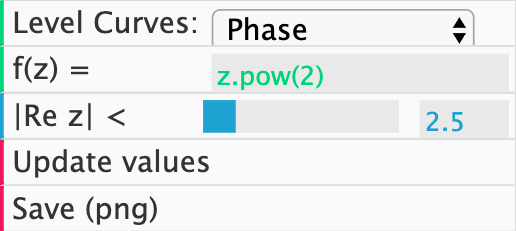
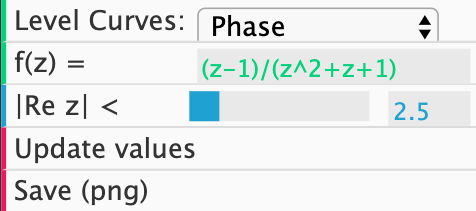
updated

diff --git a/domain-coloring/index.html b/domain-coloring/index.html
@@ -77,7 +77,7 @@
 <div class="w3-main center w3-padding-16" style="margin-top:45px">
     
 <div class="w3-container">
-    <h1>Domain coloring for visualizing complex functions <br> <p class="w3-left w3-small">15-July-2018<p></h1>
+    <h1>Domain coloring for visualizing complex functions <br> <p class="w3-center w3-small">15-July-2018<p></h1>
      <br>
      
      <div class="w3-center">
@@ -199,7 +199,7 @@
         
         <p>With the following tools you can plot an extensive variety of complex functions.</p>
         
-        <p><b>Important:</b> You will need to use the sintax from the JavaScript library  <a href="https://github.com/infusion/Complex.js/" class="w3-hover-text-blue"> Complex.js.</a> </p>
+        <!--<p><b>Important:</b> You will need to use the sintax from the JavaScript library  <a href="https://github.com/infusion/Complex.js/" class="w3-hover-text-blue"> Complex.js.</a> </p>-->
         
         <div class="w3-center w3-padding-16">
             
@@ -237,13 +237,13 @@
                 
                 <p>For plotting $f(z)=z^2+i$, enter<br><p>
                 <p>
-                <t>f(z) = z.pow(2).add("i")<br></p>
+                <t>f(z) = z^2+i<br></p>
                     
                     For plotting $f(z)=\log(1/z)$, enter <br><br>
-                    <t>f(z) = z.inverse().log()<br>
+                    <t>f(z) = log(1/z)<br>
                         </p>
                         
-                <p>To use other buit-in functions see <a href="https://github.com/infusion/Complex.js/" class="w3-hover-text-blue"> Complex.js.</a></p>
+                <!--<p>To use other buit-in functions see <a href="https://github.com/infusion/Complex.js/" class="w3-hover-text-blue"> Complex.js.</a></p>-->
                 
                 <p><span style="font-weight: bold;" class="w3-large">|Re z|&lt;:</span>
                 Drag or enter a positive number to define the square for plotting the function.</p>
